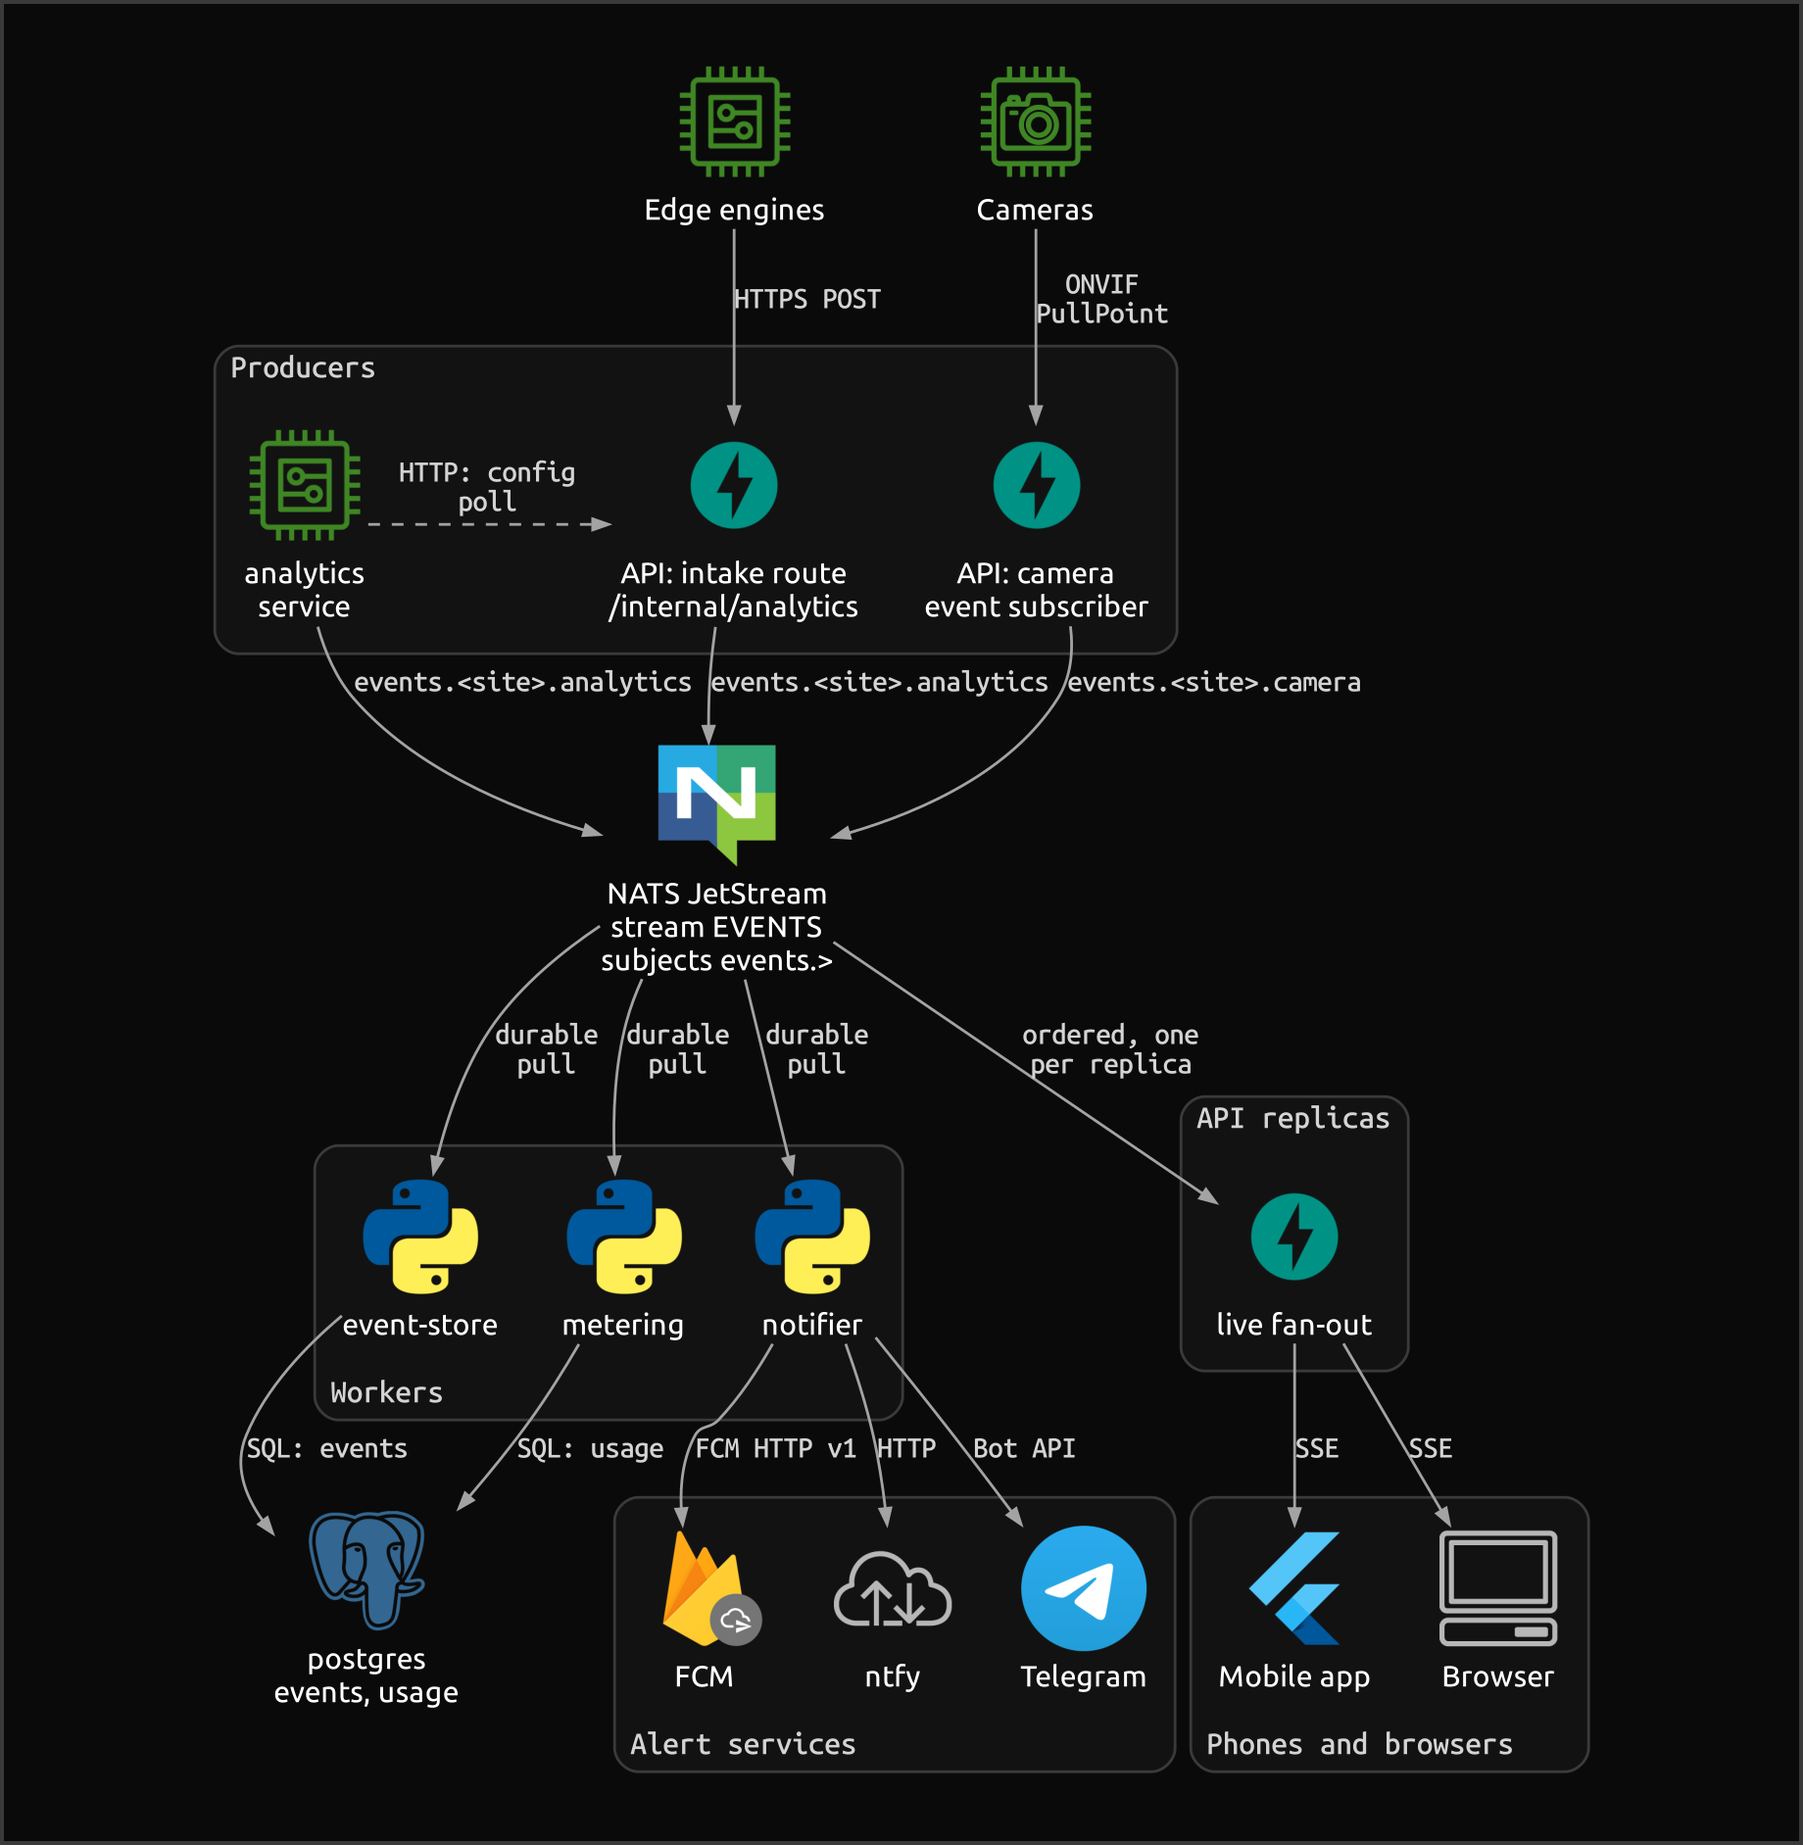
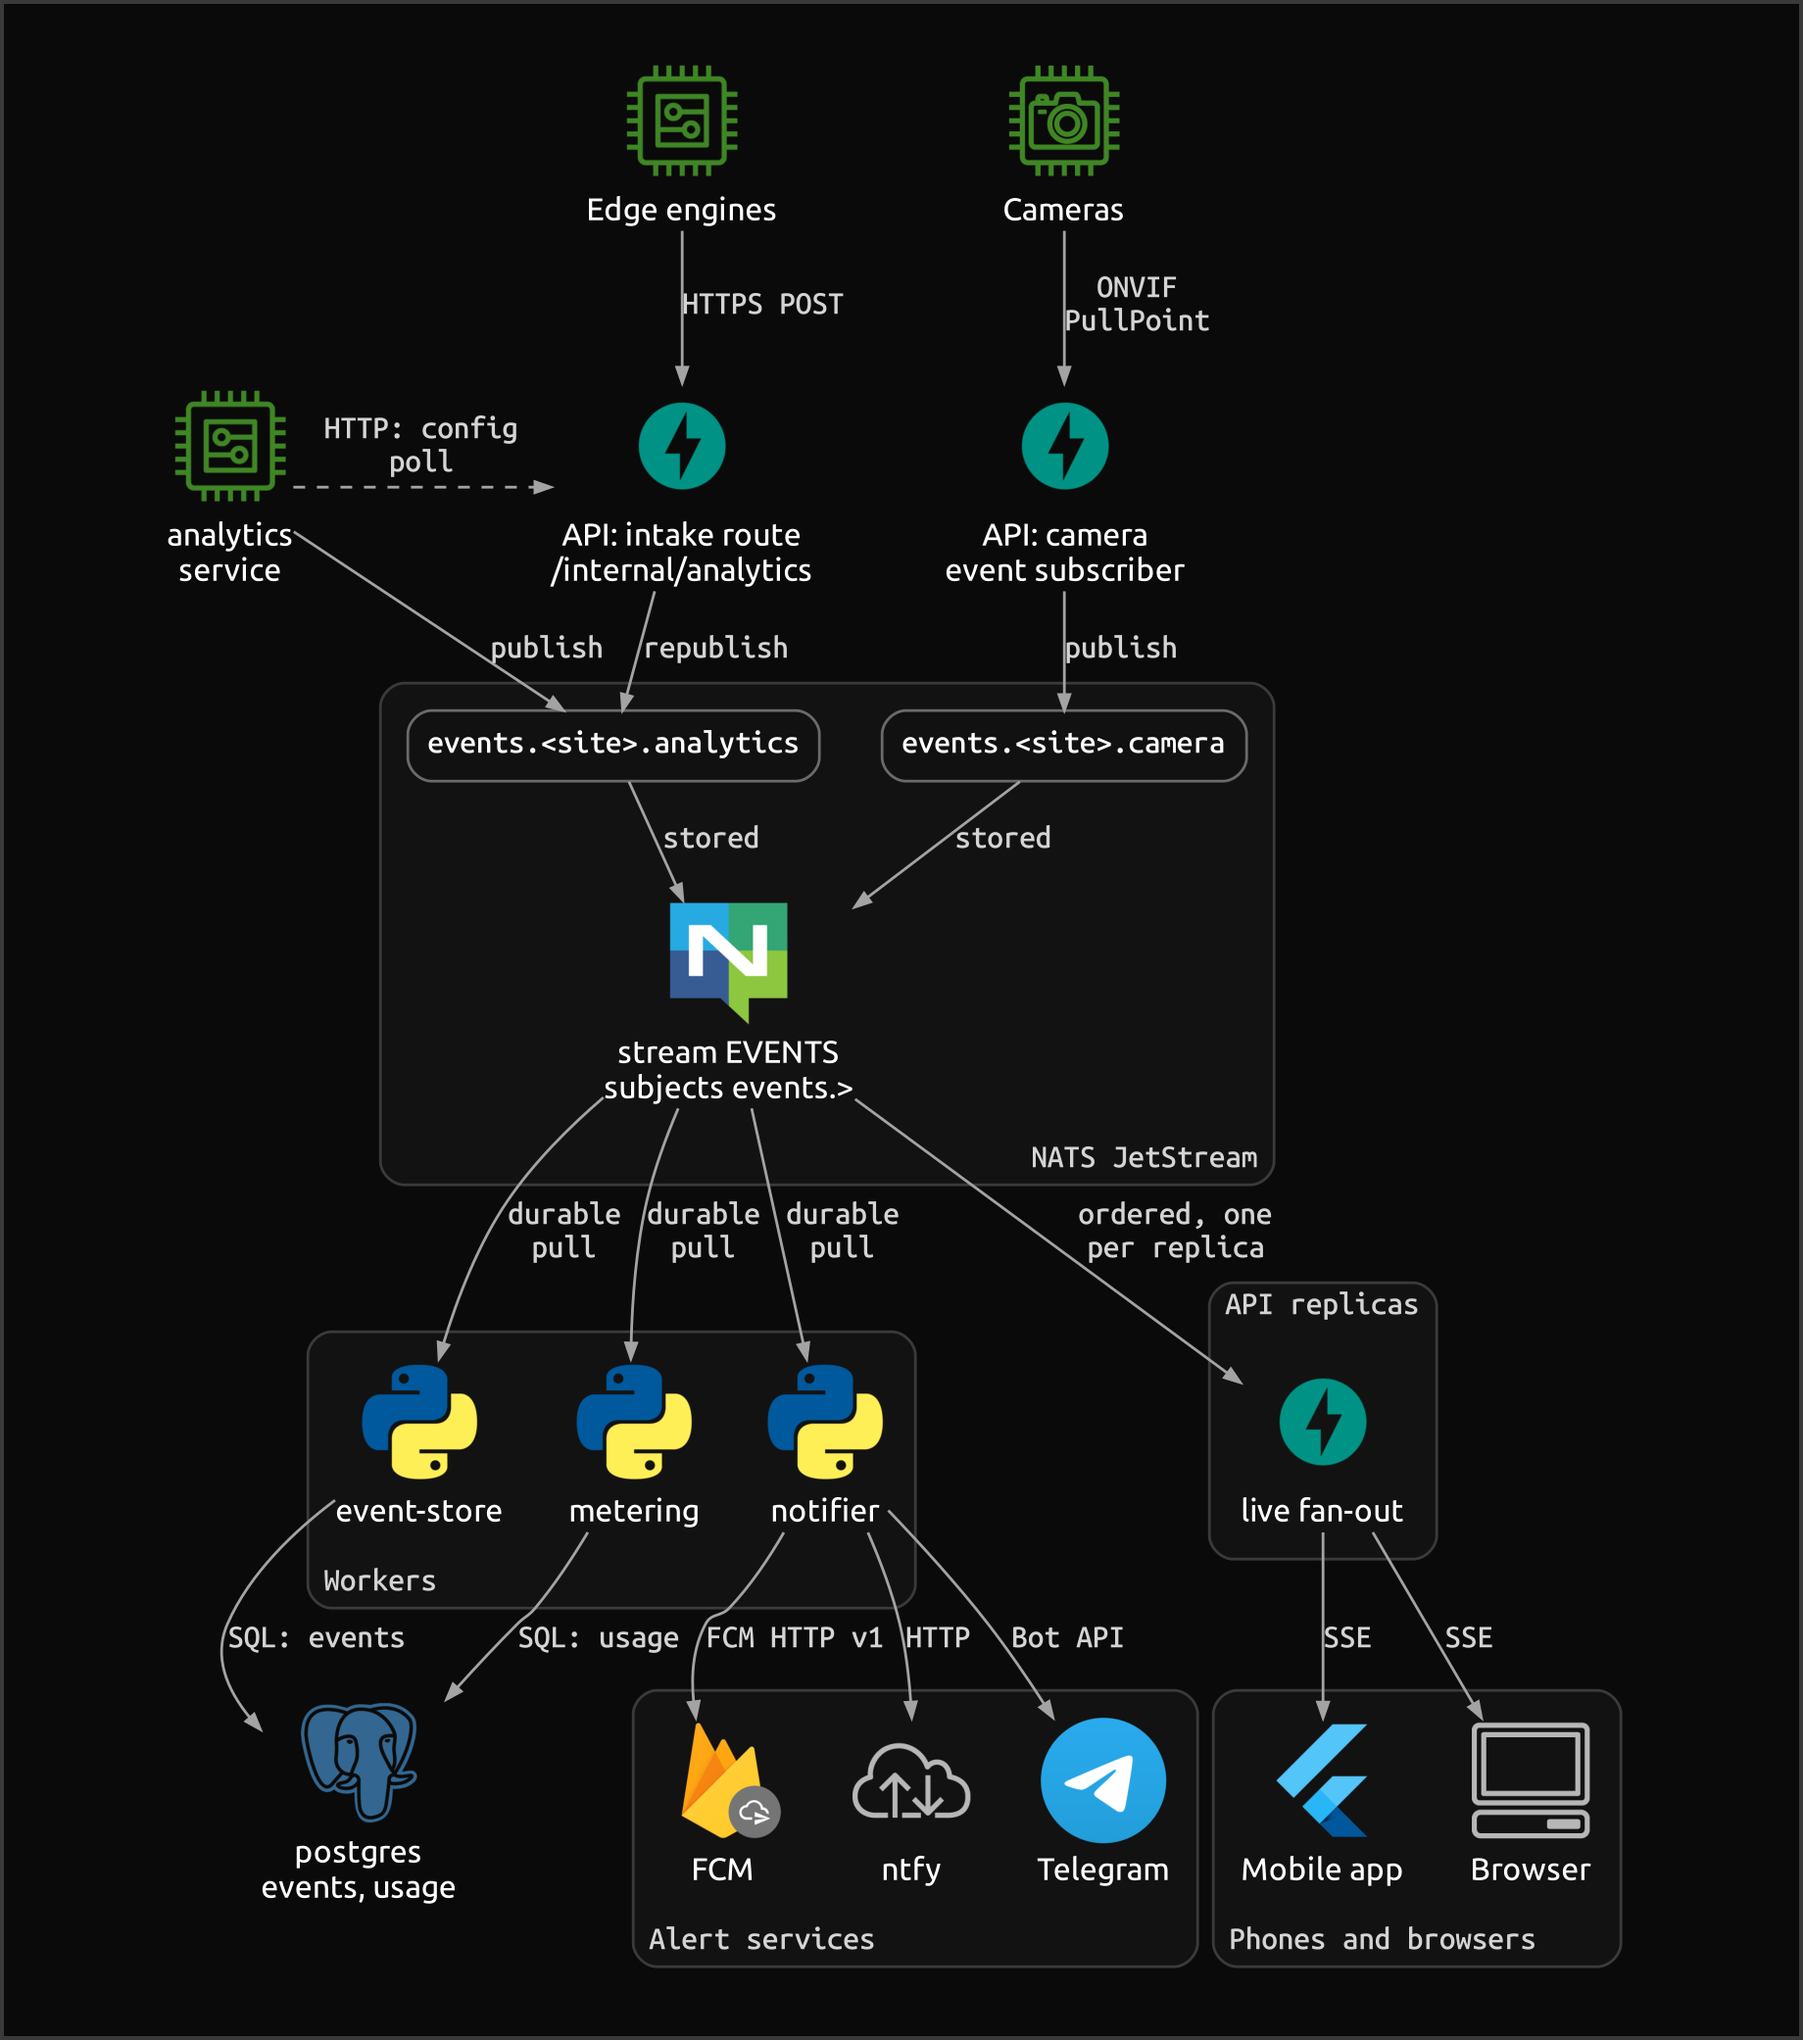
docs: show the NATS subjects as their own nodes in the event pipeline

Changed region(s): [[0.0929, 0.0308, 0.8984, 0.9857], [0.4647, 0.4312, 0.4957, 0.462]]

diff --git a/docs/diagrams/event-pipeline.py b/docs/diagrams/event-pipeline.py
@@ -1,6 +1,6 @@
 """Event pipeline: producers, subjects, the stream, the workers that consume it and where events end up."""
 
-from diagrams import Cluster, Diagram, Edge
+from diagrams import Cluster, Diagram, Edge, Node
 from diagrams.aws.iot import IotCamera, IotGeneric
 from diagrams.firebase.grow import Messaging
 from diagrams.onprem.client import Client
@@ -16,11 +16,13 @@ BOTTOM = {"labelloc": "b"}
 with Diagram(direction="TB", show=False):
     edge = IotGeneric("Edge engines")
     cameras = IotCamera("Cameras")
-    with Cluster("Producers"):
-        analytics = IotGeneric("analytics\nservice")
-        intake = Fastapi("API: intake route\n/internal/analytics")
-        subscriber = Fastapi("API: camera\nevent subscriber")
-    stream = Nats("NATS JetStream\nstream EVENTS\nsubjects events.>")
+    analytics = IotGeneric("analytics\nservice")
+    intake = Fastapi("API: intake route\n/internal/analytics")
+    subscriber = Fastapi("API: camera\nevent subscriber")
+    with Cluster("NATS JetStream", graph_attr={"labelloc": "b", "labeljust": "r"}):
+        analytics_subject = Node("events.<site>.analytics")
+        camera_subject = Node("events.<site>.camera")
+        stream = Nats("stream EVENTS\nsubjects events.>")
     with Cluster("Workers", graph_attr=BOTTOM):
         store = Python("event-store")
         notifier = Python("notifier")
@@ -38,9 +40,12 @@ with Diagram(direction="TB", show=False):
 
     cameras >> Edge(label="ONVIF\nPullPoint") >> subscriber
     edge >> Edge(label="HTTPS POST") >> intake
-    analytics >> Edge(label="events.<site>.analytics") >> stream
-    subscriber >> Edge(label="events.<site>.camera") >> stream
-    intake >> Edge(label="events.<site>.analytics") >> stream
+    analytics >> Edge(label="HTTP: config\npoll", style="dashed", constraint="false") >> intake
+    analytics >> Edge(label="publish") >> analytics_subject
+    intake >> Edge(label="republish") >> analytics_subject
+    subscriber >> Edge(label="publish") >> camera_subject
+    analytics_subject >> Edge(label="stored") >> stream
+    camera_subject >> Edge(label="stored") >> stream
     stream >> Edge(label="durable\npull") >> store
     stream >> Edge(label="durable\npull") >> notifier
     stream >> Edge(label="durable\npull") >> metering
@@ -52,4 +57,3 @@ with Diagram(direction="TB", show=False):
     notifier >> Edge(label="Bot API") >> telegram
     live >> Edge(label="SSE") >> browser
     live >> Edge(label="SSE") >> phone
-    analytics >> Edge(label="HTTP: config\npoll", style="dashed", constraint="false") >> intake
